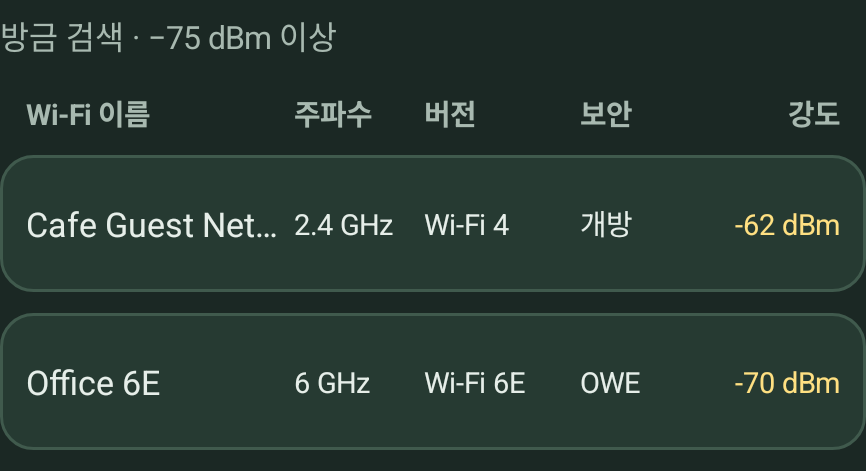
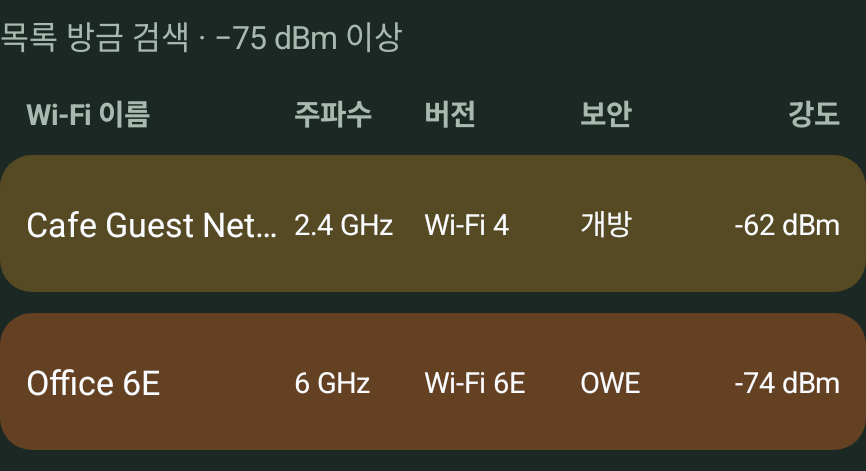
디스커넥트제로 1.1.8 배포 안내와 Wi-Fi 목록 화면 갱신

diff --git a/VALIDATION.md b/VALIDATION.md
@@ -1,22 +1,9 @@
-# 디스커넥트제로 v1.1.2 검증 안내
+# 디스커넥트제로 1.1.8 검증 안내
 
-Android 12 이상 · versionCode 26 · 기존 배포본과 같은 서명. 릴리스 빌드·Android lint 통과(오류 0, 경고 15).
+Android 15 에뮬레이터에서 라이트·다크·휴대폰 테마 전환과 1×1, 2×1, 3×2 위젯을 확인했습니다. −62 dBm과 −74 dBm인 주변 Wi-Fi가 앱과 큰 위젯에서 각각 노랑과 주황 계열 배경으로 구분되고, 각 행의 이름과 수치가 배경에 맞는 글자색으로 표시됐습니다. 위젯 바탕 불투명도 0%와 100%에서도 확인했습니다.
 
-## 이번 변경과 확인 범위
+저장된 Wi-Fi의 암호 입력 생략, 새 개인용 Wi-Fi의 암호 입력, 실제 연결 확인 후 완료 안내, 지연된 제어 응답 처리도 이번 정식 버전에 포함했습니다. Galaxy Z Fold7의 런처 표시와 공유기별 무선 인증 결과는 사용 환경에 따라 달라질 수 있습니다.
 
-- Wi-Fi 제어 도우미가 최대 약 15초 기다리는 동안 통신의 12초 읽기 제한이 먼저 끝날 수 있던 불일치를 수정했습니다. 응답 읽기는 30초, 앱의 명령 실행 제한은 기존 28초로 유지합니다. 포트 탐색·인증 시간은 별도이며 무한 재시도하지 않습니다.
-- Android 15 에뮬레이터에서 **앱 UID의 실제 TLS 연결로 16초 뒤 응답을 수신**했습니다. PC의 ADB 성공만으로 앱 기능을 검증했다고 판단하지 않았습니다.
-- Android의 실제 6자리 코드를 알림 입력으로 전달하는 페어링, 로컬 TLS 재연결, 저장된 개방형 Wi-Fi 연결 확인, 새 보안 Wi-Fi 암호 요청, 기업용 인증의 대체 안내를 검사했습니다.
-- 새로운 서비스 정보 구독이 실패하거나 응답하지 않는 경우 기존 방식의 포트 조회도 시도합니다. 검색된 주소는 같은 휴대폰의 주소인지 검사하며 실제 통신은 로컬 주소에만 연결합니다. 제조사별 자동 탐색 성공은 별도 확인이 필요합니다.
-- 의도적으로 잘못된 포트에 연결하여 접속 실패 단계가 기록되고, 페어링 기록만 있을 때 ‘연결 확인 필요’로 표시되는 것을 확인했습니다.
-- 무선 디버깅이 꺼진 경우를 구분합니다. 위젯 연결 대기 중 시스템 연결 버튼, 실패 후 암호 입력·Android 저장 요청 화면으로 전환되는 경로를 확인했습니다. 이미 전달한 연결 요청은 화면을 닫아도 실행될 수 있다고 안내합니다.
-- 연결 진단에는 기기 모델·Android·앱 버전, 페어링 상태, 실패 단계와 예외 종류만 포함합니다. 암호·페어링 코드·키·Wi-Fi 이름·원시 명령 출력은 포함하지 않습니다.
-- ‘앱 사용 중’ 위치 권한만 허용한 상태에서 앱 화면을 닫은 뒤 **약 60.6초 후 실제 다음 검색 결과가 갱신**됐습니다. 검색 실패가 시각을 새로 만들지 않는 것과 오래된 후보 숨김도 통과했습니다. 지난 버전에서 개발 환경 문제로 중단했던 검사를 이번 전용 환경에서 완료했습니다.
+기존 정식 버전과 같은 서명으로 배포합니다. APK의 SHA-256은 아래와 같습니다.
 
-## 아직 확인이 필요한 부분
-
-Galaxy Z Fold7 / One UI 실기기에서 사용자가 보고한 끊김의 정확한 원인과 개선 여부는 아직 확인하지 못했습니다. WPA2·WPA3·OWE의 실제 AP 전환, Android 12·13, 재부팅·장시간 절전은 기기별 추가 검증이 필요합니다. 자동 탐색이 실패하면 현재 연결 포트를 직접 입력할 수 있으며, 무선 디버깅이 꺼져 있으면 사용자가 직접 켜야 합니다. 미지원 기기는 시스템 Wi-Fi 연결을 이용합니다.
-
-설치·보안 안내는 앱과 README에 유지합니다. 무선 디버깅은 선택 기능이며 새 전화·접근성 권한을 요구하지 않습니다. 관련 오픈소스 고지는 앱 안에 제공합니다.
-
-공개 첨부는 APK와 SHA-256만 제공합니다. 자동 Source ZIP에는 공개 문서와 이미지만 포함하며 앱 소스·서명 키·페어링 정보·시험 자료는 공개하지 않습니다.
[1 lines of base64/hex data omitted]
